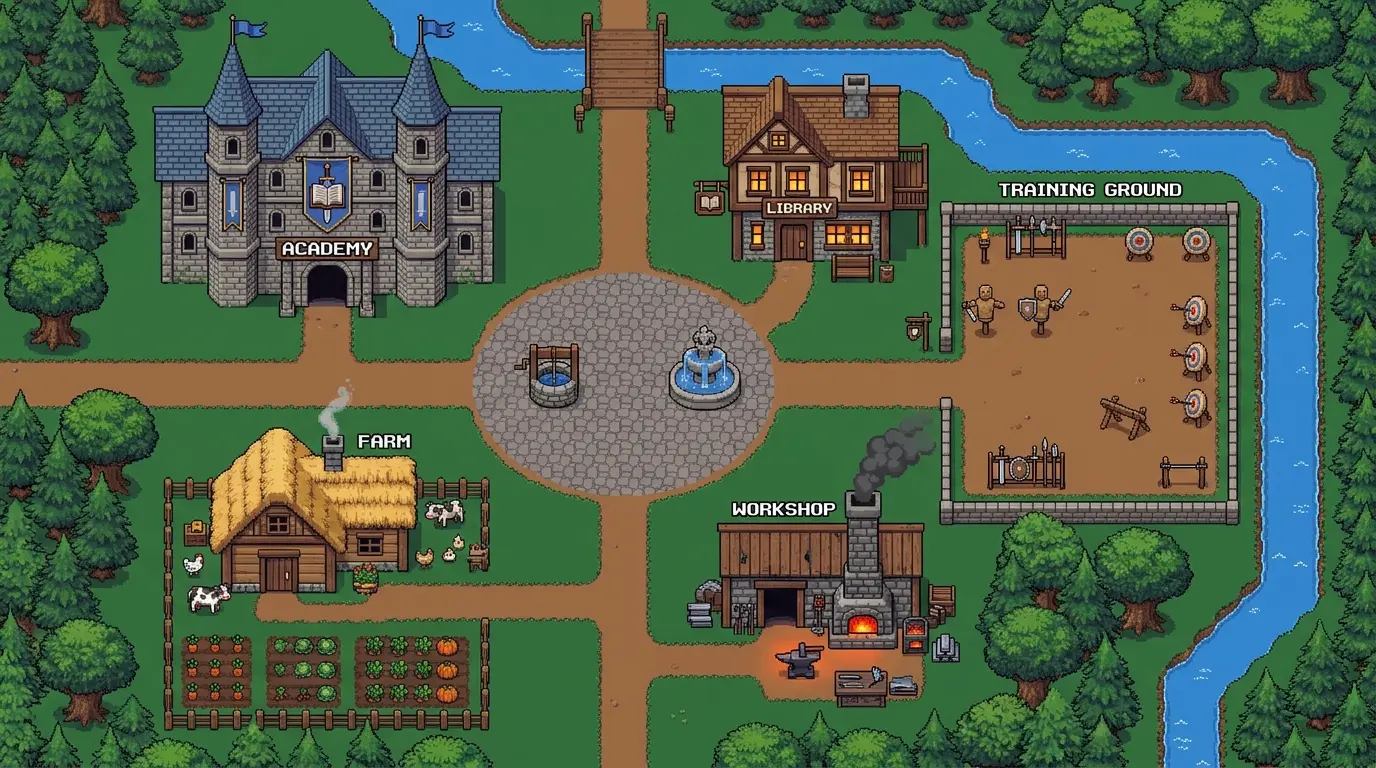
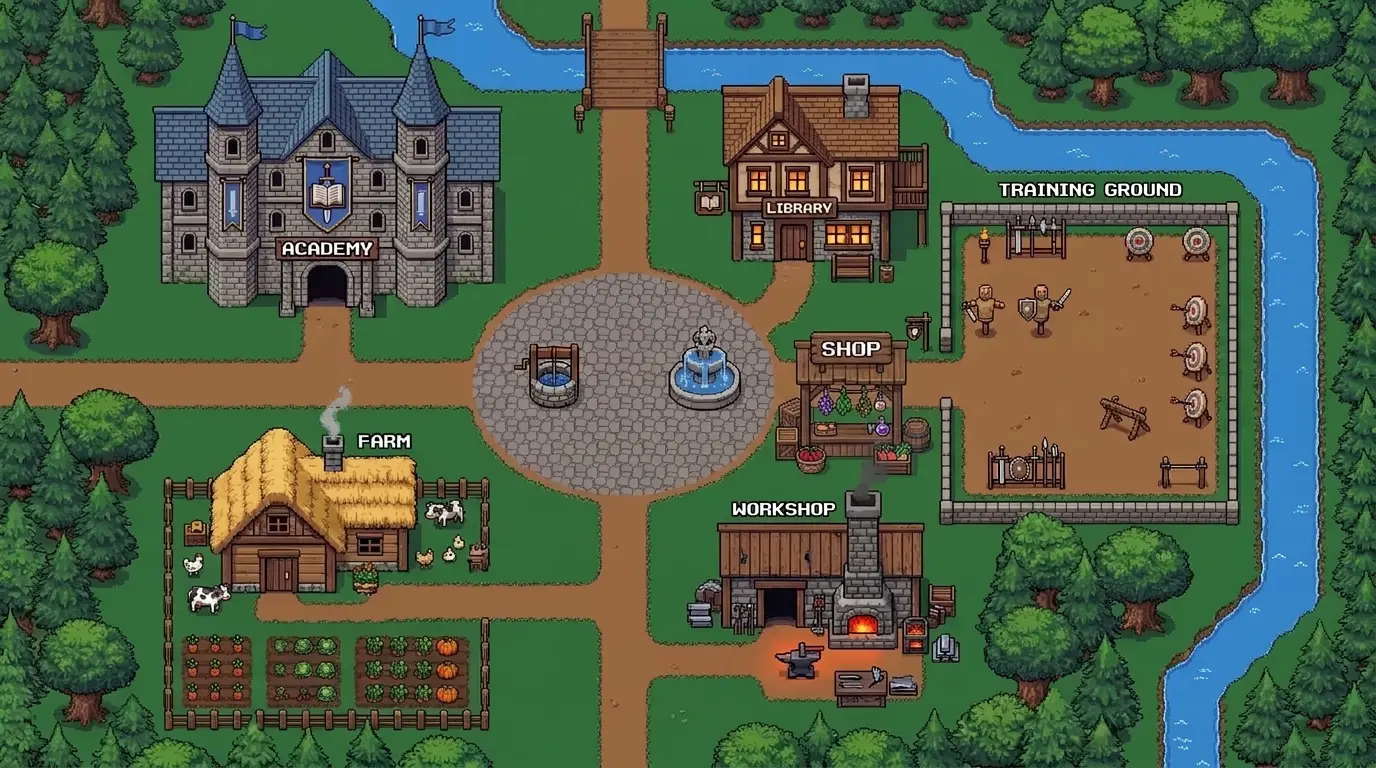
feat(village): add shop building and hotspot to village-tier-1

diff --git a/app/(game)/village/page.jsx b/app/(game)/village/page.jsx
@@ -578,31 +578,39 @@ const HOTSPOTS = [
   { key: "gym", name: "Training Ground", category: "Strength", top: 30, left: 75 },
   { key: "home", name: "Farm", category: "Discipline", top: 65, left: 15 },
   { key: "home", name: "Workshop", category: "Discipline", top: 65, left: 60 },
+  { key: "shop", name: "Shop", category: null, top: 42, left: 62 },
 ];
 
 function Hotspot({ spot }) {
   const router = useRouter();
-  const available = mockQuests.filter(
-    (q) => q.hotspot === spot.key && q.status === "available"
-  );
+  const isShop = spot.key === "shop";
+  const available = isShop
+    ? []
+    : mockQuests.filter((q) => q.hotspot === spot.key && q.status === "available");
   const count = available.length;
-  const targetId = available[0]?.id ?? mockQuests.find((q) => q.hotspot === spot.key)?.id;
+  const targetId = isShop
+    ? null
+    : available[0]?.id ?? mockQuests.find((q) => q.hotspot === spot.key)?.id;
 
   return (
     <motion.button
       type="button"
-      aria-label={`${spot.name} — ${spot.category} quests, ${count} available`}
+      aria-label={isShop ? "Shop — buy items" : `${spot.name} — ${spot.category} quests, ${count} available`}
       whileHover={{ scale: 1.15 }}
       whileTap={{ scale: 0.9 }}
       transition={{ duration: 0.25, ease: "easeInOut" }}
-      onClick={() => targetId && router.push(`/quest/${targetId}`)}
+      onClick={() => (isShop ? router.push("/shop") : targetId && router.push(`/quest/${targetId}`))}
       style={{ top: `${spot.top}%`, left: `${spot.left}%` }}
       className="group absolute flex h-8 w-8 -translate-x-1/2 -translate-y-1/2 items-center justify-center rounded-avatar border-2 border-xp-amber bg-dusk shadow-[0_0_0_2px_black,0_0_10px_rgba(242,184,75,0.7)] transition hover:shadow-[0_0_0_2px_black,0_0_18px_rgba(242,184,75,0.95)] focus-visible:outline focus-visible:outline-2 focus-visible:outline-offset-2 focus-visible:outline-xp-amber motion-reduce:transition-none animate-pulse hover:animate-none sm:h-10 sm:w-10 sm:border-[3px] md:h-12 md:w-12"
     >
-      {count > 0 && (
-        <span className="flex h-4 w-4 items-center justify-center rounded-avatar bg-xp-amber font-pixel text-[8px] text-black sm:h-5 sm:w-5 sm:text-[10px] md:h-6 md:w-6 md:text-[11px]">
-          {count}
-        </span>
+      {isShop ? (
+        <span className="text-xs sm:text-sm">🛒</span>
+      ) : (
+        count > 0 && (
+          <span className="flex h-4 w-4 items-center justify-center rounded-avatar bg-xp-amber font-pixel text-[8px] text-black sm:h-5 sm:w-5 sm:text-[10px] md:h-6 md:w-6 md:text-[11px]">
+            {count}
+          </span>
+        )
       )}
       <span className="pointer-events-none absolute -bottom-6 left-1/2 -translate-x-1/2 whitespace-nowrap rounded bg-black/90 px-2 py-0.5 font-pixel text-[9px] text-xp-amber opacity-0 transition group-hover:opacity-100">
         {spot.name}
